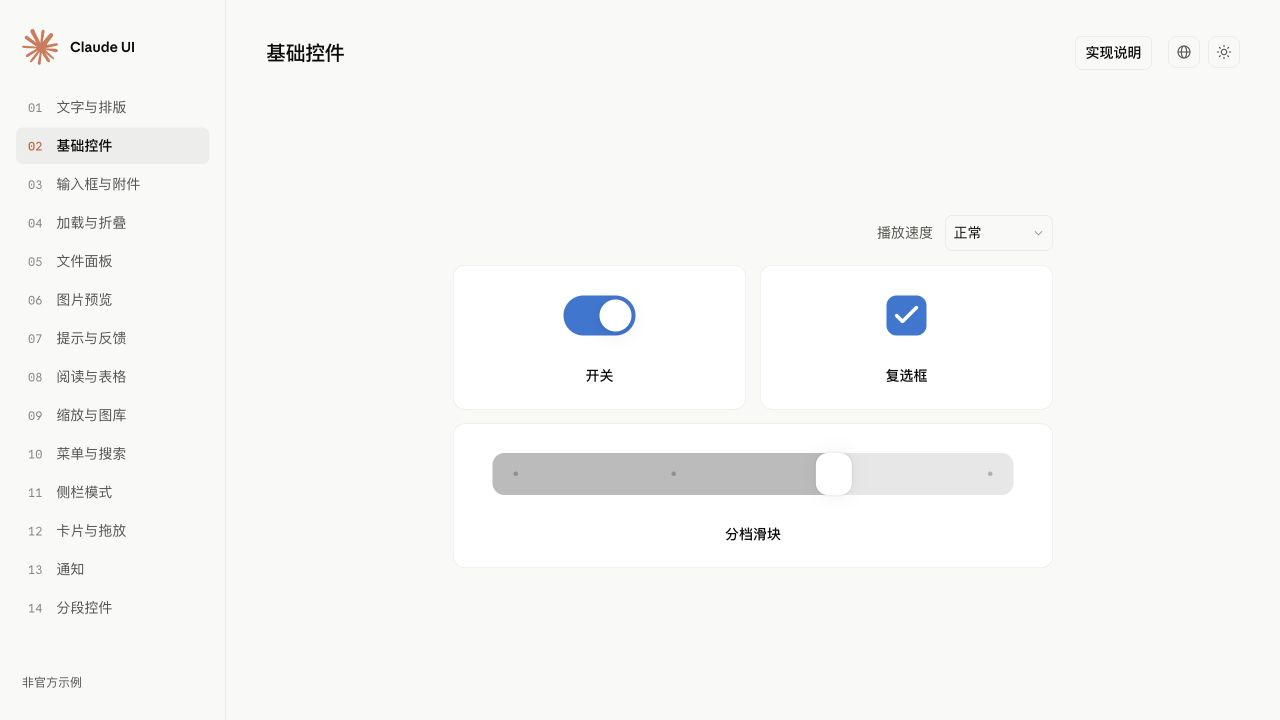
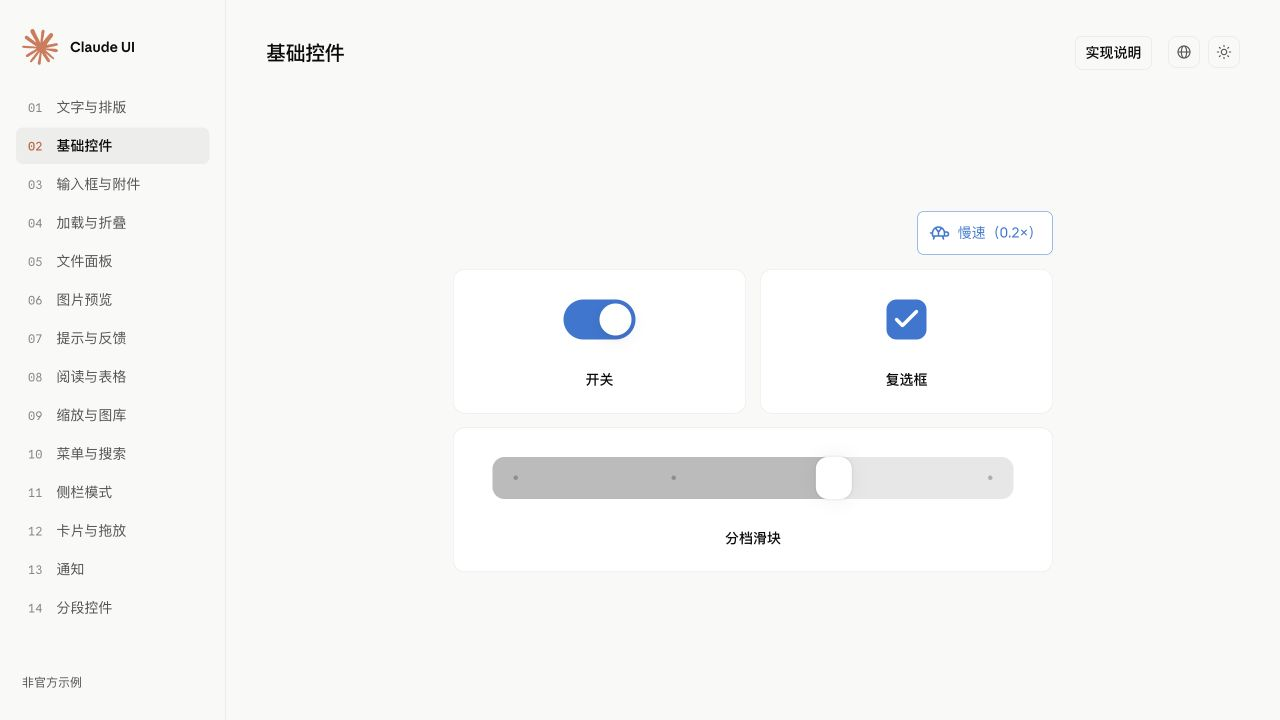
fix(demo): restore turtle button with slow playback default

diff --git a/demo/styles/shell.css b/demo/styles/shell.css
@@ -105,31 +105,9 @@
 /* Optional implementation notes never unmount the specimens. */
 .demo-notes-toggle { flex-shrink: 0; }
 .demo-notes-toggle[aria-pressed=true] { background: var(--cui-muted-surface); }
-.demo-select { display:inline-block; position:relative; flex-shrink:0; vertical-align:middle; }
-.demo-select-trigger {
-  display:flex; align-items:center; justify-content:space-between; gap:8px; min-height:36px;
-  border:var(--demo-line) solid var(--cui-line); border-radius:8px; padding:0 8px;
-  font:inherit; font-size:14px; font-weight:400; color:var(--cui-text); background:transparent;
-}
-.demo-select-trigger:hover, .demo-select-trigger[aria-expanded=true] { background:var(--cui-menu-hover); color:var(--cui-text); }
-.demo-select-trigger > span { min-width:0; overflow:hidden; text-overflow:ellipsis; white-space:nowrap; }
-.demo-select-trigger > .cui-icon { flex-shrink:0; color:var(--cui-muted); }
-.demo-select-menu {
-  position:absolute; top:calc(100% + 6px); right:0; z-index:60; min-width:max(100%,148px); padding:5px;
-  border:var(--demo-line) solid var(--cui-line); border-radius:10px; background:var(--cui-surface-popover);
-  box-shadow:0 8px 24px var(--cui-shadow-depth);
-}
-.demo-select-menu > button {
-  display:flex; align-items:center; justify-content:space-between; gap:20px; width:100%; min-height:34px;
-  border:0; border-radius:5px; padding:6px 9px; font:inherit; font-size:14px; font-weight:400; text-align:left;
-  white-space:nowrap; color:var(--cui-text); background:transparent;
-}
-.demo-select-menu > button[data-highlighted] { background:var(--cui-menu-hover); }
-.demo-select-menu > button > .cui-icon { visibility:hidden; color:var(--cui-secondary); }
-.demo-select-menu > button[aria-selected=true] { font-weight:500; }
-.demo-select-menu > button[aria-selected=true] > .cui-icon { visibility:visible; }
-.demo-speed-select { min-width:108px; }
-.demo-speed-control { display: flex; align-items: center; gap: 12px; font-size: 14px; font-weight:400; color: var(--cui-secondary); }
+.demo-slow { display:inline-flex; align-items:center; justify-content:center; height:44px; padding:0 10px; gap:6px; font-size:14px; font-weight:400; border:var(--demo-line) solid transparent; border-radius:6px; background:transparent; }
+.demo-slow svg { width:24px; height:24px; }
+.demo-slow[aria-pressed=true] { color:var(--cui-accent); background:var(--cui-surface); box-shadow:inset 0 0 0 var(--demo-line) currentColor; }
 .demo-control-params { display: flex; flex-wrap: wrap; justify-content: center; gap: 4px 12px; }
 .demo-shell[data-show-notes=false] :is(.demo-card-foot, .demo-implementation, p.demo-reading-detail, .demo-workspace-card > footer) { display: none; }
 @media (max-width:520px) {

diff --git a/demo/chapters/ControlsChapter.tsx b/demo/chapters/ControlsChapter.tsx
@@ -3,11 +3,10 @@ import type { CSSProperties } from 'react';
 import { Checkbox, DiscreteSlider, Switch } from '../../src';
 import type { Copy, Locale } from '../i18n';
 import { translate } from '../translations';
-import { DemoSelect } from '../components/DemoSelect';
 import { Specimen } from '../components/Specimen';
 
 export function ControlsChapter({ copy, locale, active }: { copy: Copy; locale: Locale; active: boolean }) {
-  const [slow, setSlow] = useState(false);
+  const [slow, setSlow] = useState(true);
   const [checked, setChecked] = useState(true);
   const [enabled, setEnabled] = useState(true);
   const [effort, setEffort] = useState('2');
@@ -17,10 +16,8 @@ export function ControlsChapter({ copy, locale, active }: { copy: Copy; locale: 
   return (
     <div className="demo-controls-grid" style={{ '--cui-motion-scale': slow ? 5 : 1 } as CSSProperties}>
       <div className="demo-controls-toolbar">
-        <div className="demo-speed-control"><span>{copy.playback}</span>
-          <DemoSelect className="demo-speed-select" label={copy.playback} active={active} value={slow ? '0.2' : '1'}
-            onChange={value => setSlow(value === '0.2')} options={[{ value: '1', label: copy.normalSpeed }, { value: '0.2', label: copy.slowSpeed }]} />
-        </div>
+        <button type="button" aria-label={copy.playback} disabled={!active} aria-pressed={slow} onClick={() => setSlow(!slow)}
+          className="demo-slow"><svg viewBox="0 0 24 24" aria-hidden="true" fill="none" stroke="currentColor" strokeWidth="1.6" strokeLinecap="round" strokeLinejoin="round"><path d="M5 15v-3a6 6 0 0 1 12 0v3H5Z M8 7l3 4 3-4 M11 11v4 M7 15l-1 3 M15 15l1 3 M5 12H3" /><path d="M17 11h2a2 2 0 0 1 0 4h-2" /></svg><span>{slow ? copy.slowSpeed : `${copy.normalSpeed} 1×`}</span></button>
       </div>
         <Specimen title={copy.switch} description={copy.switchDescription} parameters={locale === 'en' ? "120ms; 16px travel; CSS transform" : "120ms; 16px 位移; CSS transform"}>
           <div className="[zoom:2]"><Switch aria-label={copy.switch} checked={enabled} onCheckedChange={setEnabled} /></div>

diff --git a/tests/fixtures/demo-settings/main.tsx b/tests/fixtures/demo-settings/main.tsx
@@ -1,18 +1,16 @@
 import { Activity, StrictMode, useState } from 'react';
 import { createRoot } from 'react-dom/client';
-import { DemoSelect } from '../../../demo/components/DemoSelect';
+import { ControlsChapter } from '../../../demo/chapters/ControlsChapter';
+import { messages } from '../../../demo/i18n';
 import '../../../demo/style.css';
 function Fixture() {
   const [visible, setVisible] = useState(true), [active, setActive] = useState(true), [mounted, setMounted] = useState(true);
-  const [value, setValue] = useState('light'), [changes, setChanges] = useState(0);
   return <div className="demo-shell" style={{ padding: 20 }}>
     <button onClick={() => setVisible(!visible)}>Toggle visibility</button>
     <button onClick={() => setActive(!active)}>Toggle active</button>
     <button onClick={() => setMounted(!mounted)}>Toggle mount</button>
-    <Activity mode={visible ? 'visible' : 'hidden'}>{mounted ? <DemoSelect label="Theme" value={value} active={active}
-      options={['light', 'dark', 'system'].map(value => ({ value, label: value }))}
-      onChange={value => { setValue(value); setChanges(count => count + 1); }} /> : null}</Activity>
-    <input aria-label="Outside focus" /><output data-changes>{changes}</output>
+    <Activity mode={visible ? 'visible' : 'hidden'}>{mounted ? <ControlsChapter copy={messages.en} locale="en" active={active} /> : null}</Activity>
+    <input aria-label="Outside focus" />
   </div>;
 }
 const app = <Fixture />;

diff --git a/tests/fixtures/demo-settings/index.html b/tests/fixtures/demo-settings/index.html
@@ -1,0 +1,1 @@
+<!doctype html><html lang="en"><head><meta charset="UTF-8"><link rel="icon" href="data:,"><meta name="viewport" content="width=device-width, initial-scale=1"><title>Demo settings lifecycle</title></head><body><div id="root"></div><script type="module" src="./main.tsx"></script></body></html>

diff --git a/tests/README.md b/tests/README.md
@@ -26,7 +26,7 @@ React suites also exercise independently imported components without the demo st
 
 [Demo presentation checks](demo-presentation.browser.cjs) traverse all 14 chapters in English and Chinese, light and dark themes, desktop and 320px layouts, with StrictMode off/on. They cover optional notes without remounting the controls, normal/slow playback selection, legible demo text, absence of middle-dot separators, narrow-screen navigation, horizontal overflow and persisted/system theme selection.
 
-[Demo picker checks](demo-select.browser.cjs) verify the original 32px theme icon button, keyboard/touch cycling and system preference, and cover playback-menu keyboard navigation, typeahead, Escape/Tab, pointer and emulated-touch selection, outside dismissal, pagehide, chapter switching, retained-DOM Activity reconnection, active changes and silent unmount. They run with StrictMode off/on and check bilingual light/dark menus at 320/390/1280px.
+[Demo settings checks](demo-settings.browser.cjs) verify the original theme icon and turtle buttons, default 0.2× and normal-speed transition durations, keyboard/touch toggling, chapter switching, retained-DOM Activity reconnection, inactive controls and focus preservation. They run with StrictMode off/on and check bilingual light/dark settings at 320/390/1280px.
 
 `react-ssr.browser.cjs` renders the public source with Vite SSR, then hydrates it in Chrome under StrictMode. It checks matching initial markup without filesystem URLs, real sprite decoding, pause/resume, Replay, unmount cleanup and decode-failure fallback.
 

diff --git a/demo/README.md b/demo/README.md
@@ -15,7 +15,7 @@ Open the printed Vite address. `/demo/` is an additional entry to the same appli
 
 The [mobile preview](../docs/assets/demo-preview-mobile.jpg) shows the 320px layout.
 
-Use the original icon button to cycle System → Light → Dark. Its display, sun or moon icon indicates the current preference. The playback picker supports arrow keys to browse, Enter to select, Escape to cancel and Tab to move on. Implementation notes are hidden by default; the chapter-header toggle reveals descriptions and technical parameters without resetting the specimens. Controls start at normal playback speed; choose Slow (0.2×) to inspect their original motion.
+Use the original icon button to cycle System → Light → Dark. Its display, sun or moon icon indicates the current preference. The turtle button toggles playback between 0.2× and 1× with a click, Enter or Space. Implementation notes are hidden by default; the chapter-header toggle reveals descriptions and technical parameters without resetting the specimens. Controls start at 0.2× so their motion is easy to inspect; toggle the turtle button to restore normal speed.
 
 Existing theme/language preferences from the pre-migration demo are retained; valid current preferences take precedence. Unsupported language parameters are ignored in favor of a valid saved preference or the browser language. Reselecting the current chapter returns to the top without adding a history entry.
 
